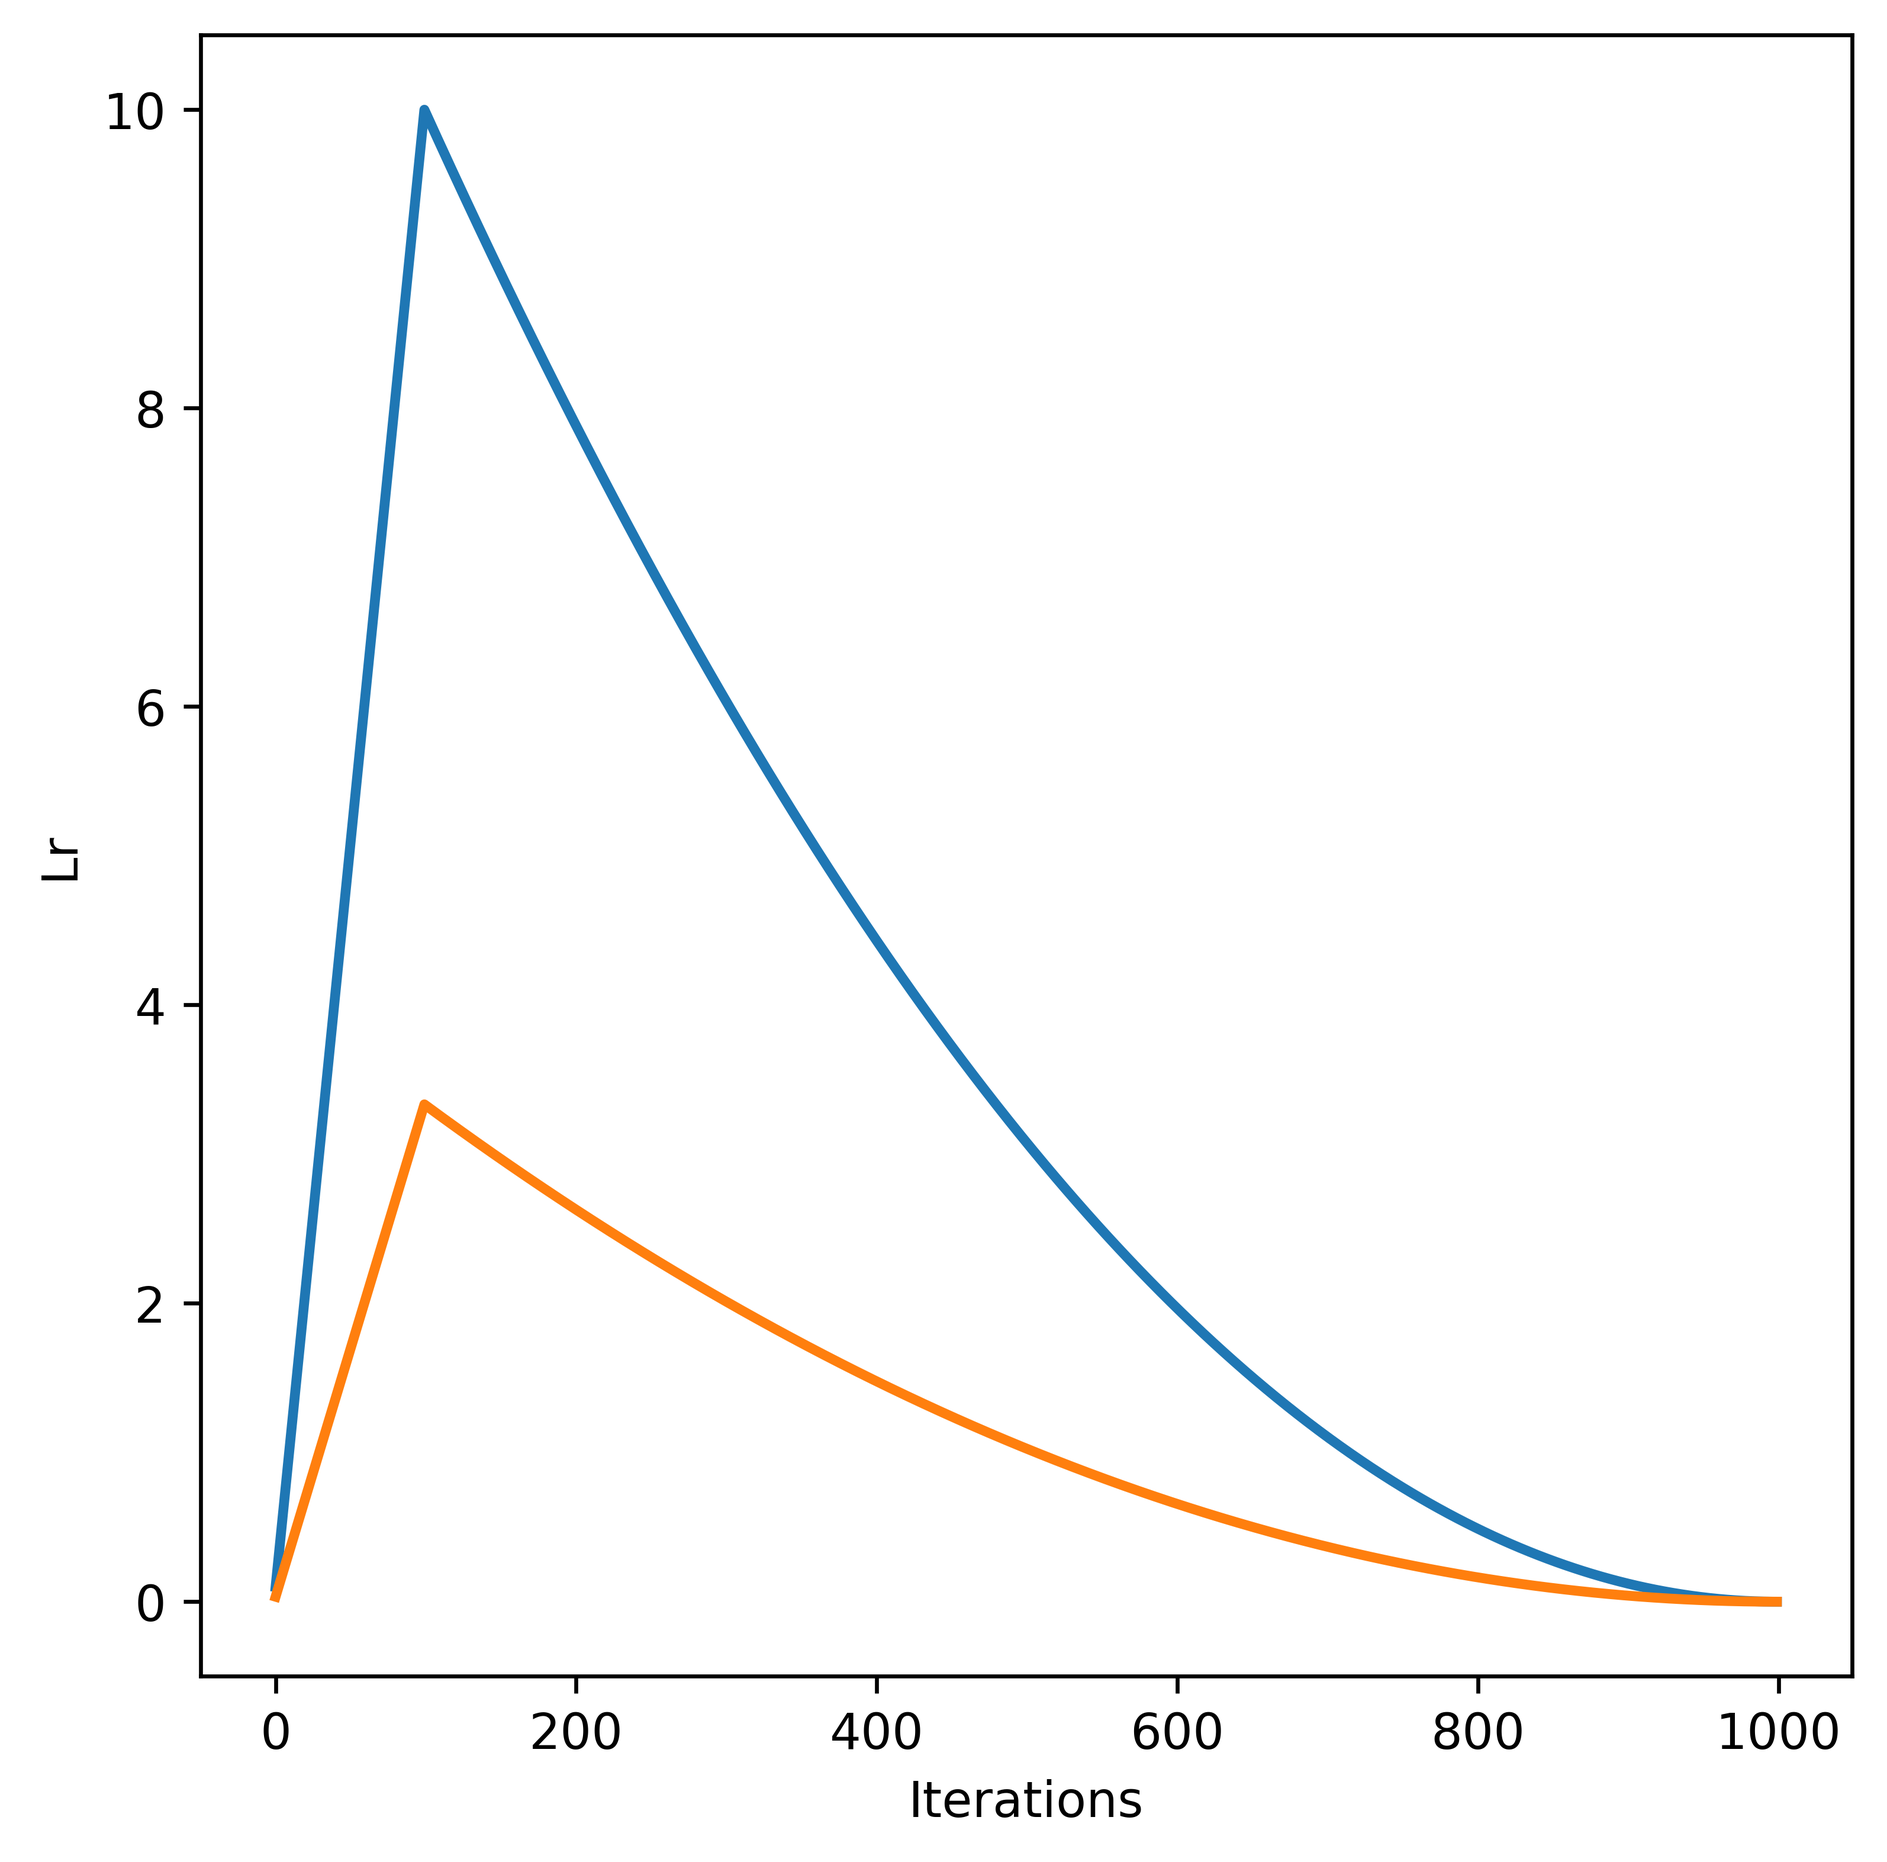
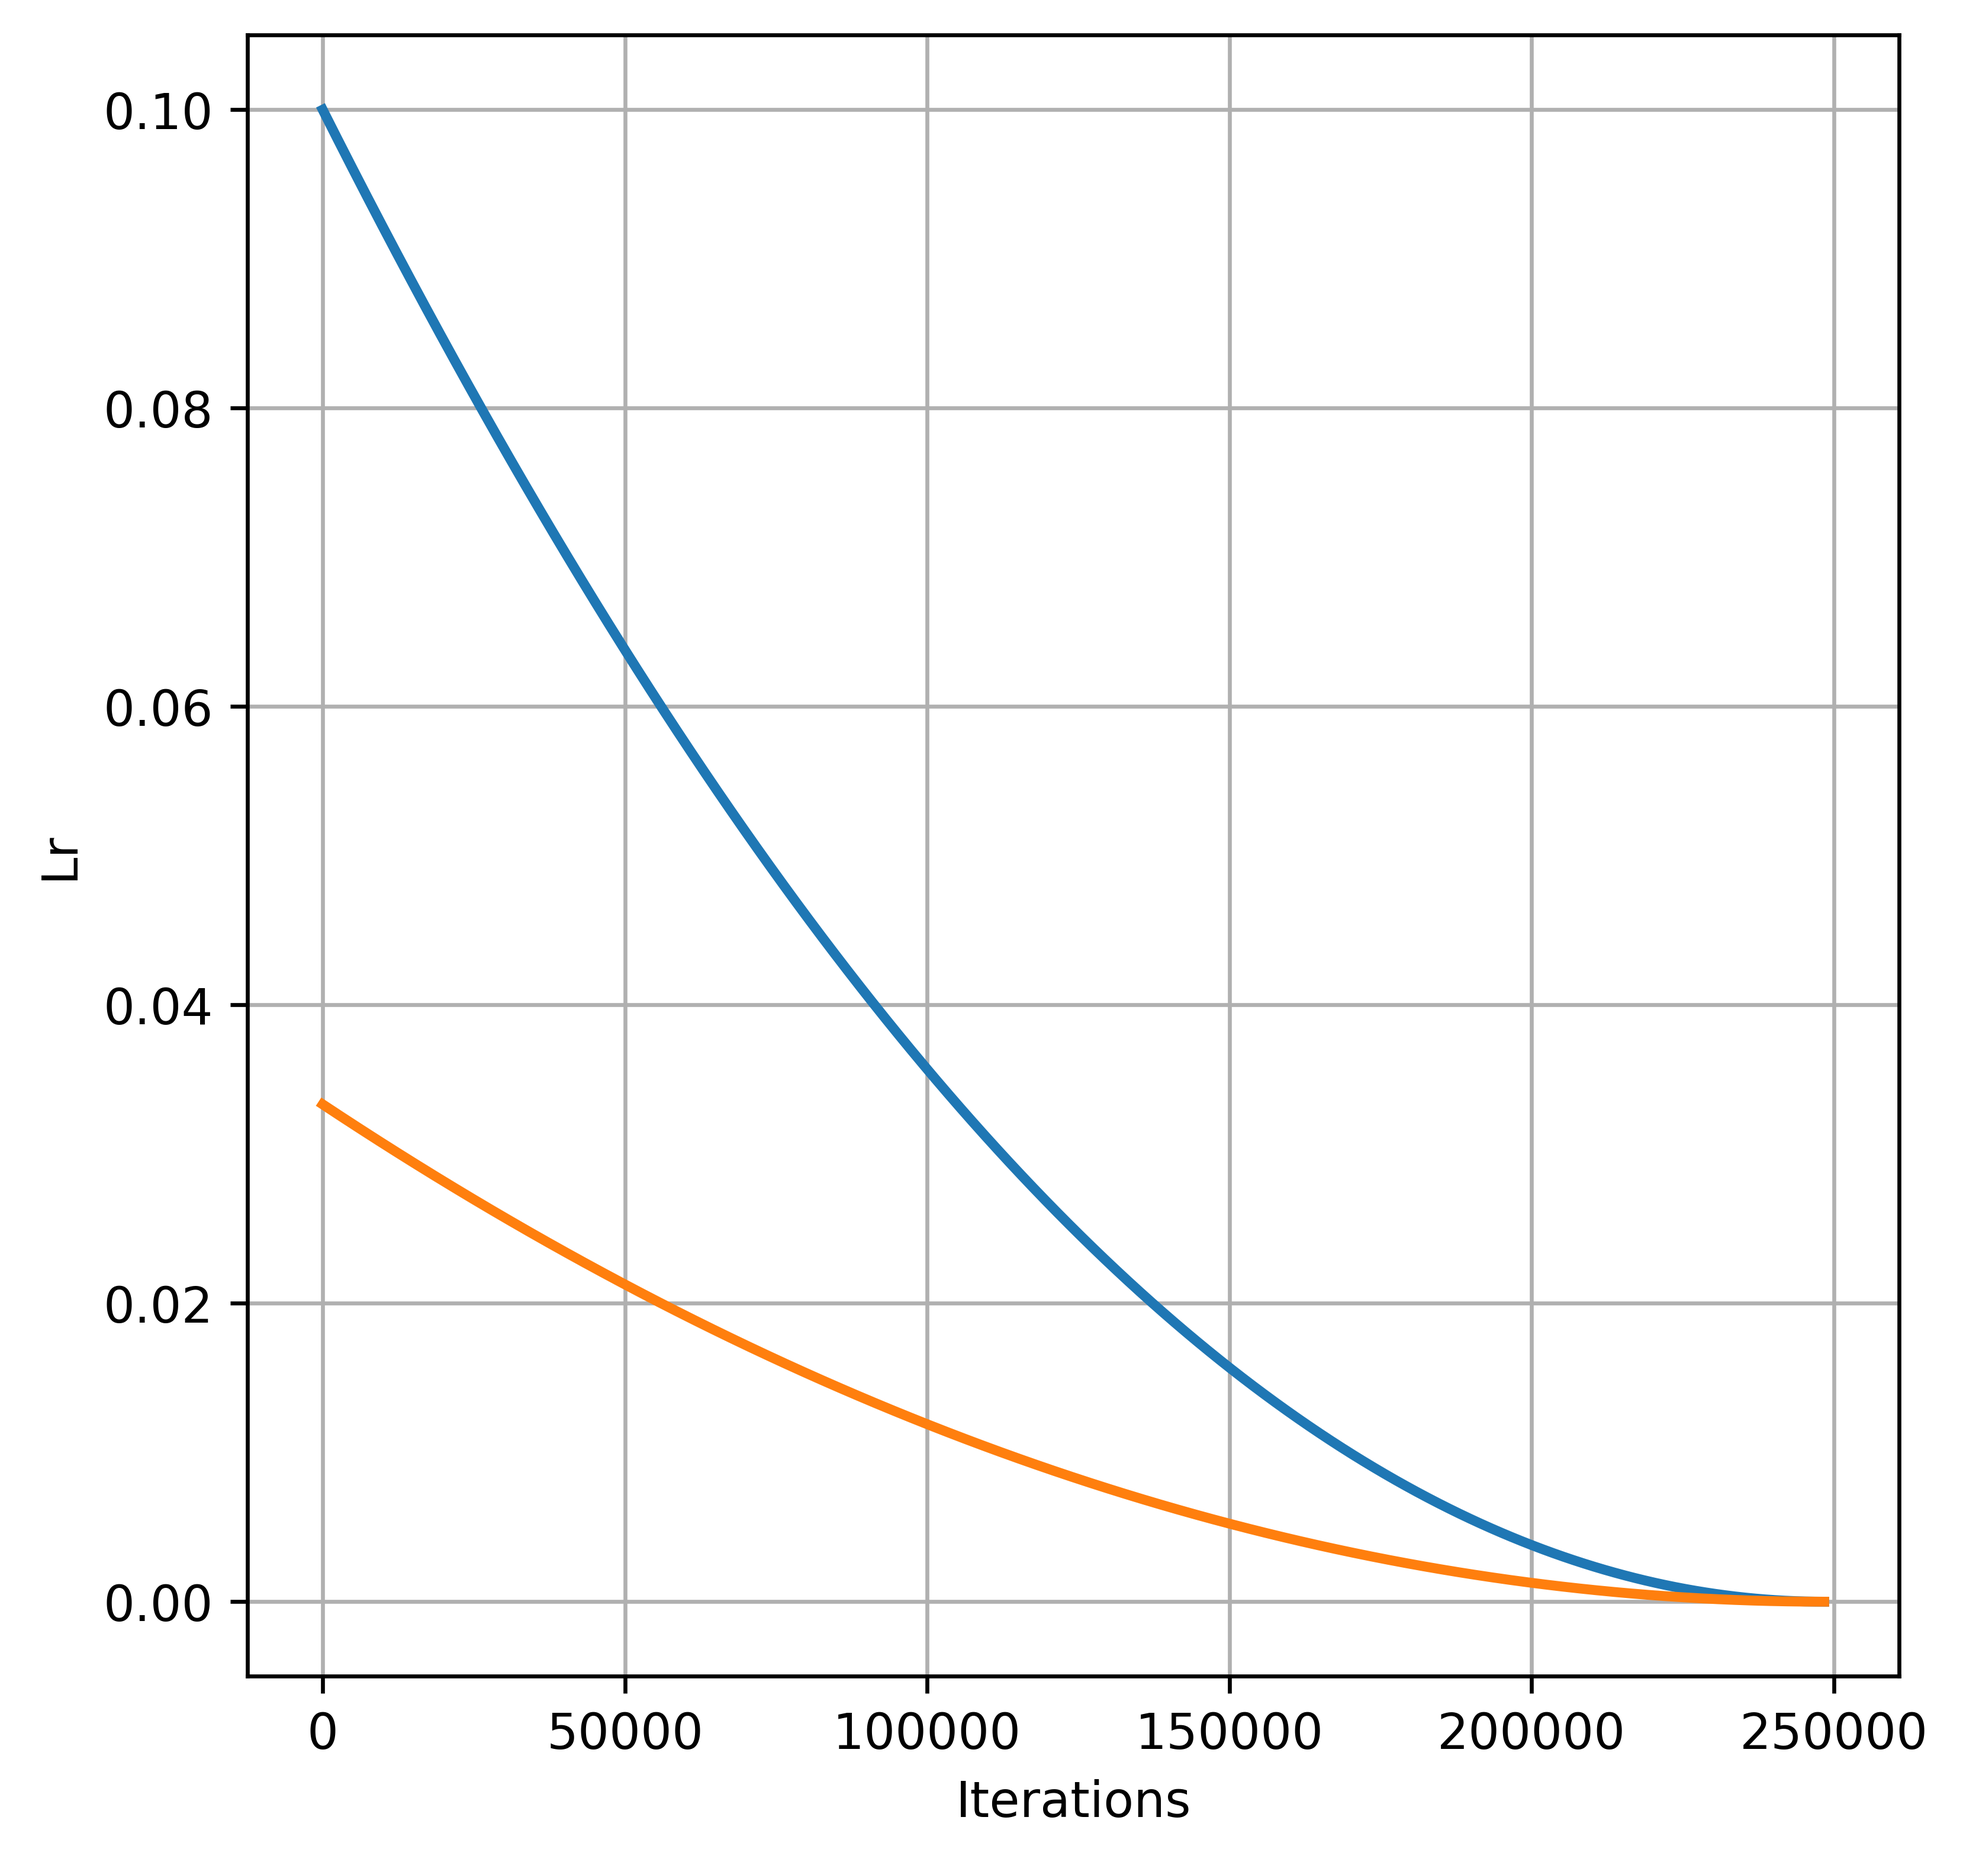
check

diff --git a/lr_scheduler.py b/lr_scheduler.py
@@ -5,7 +5,7 @@ import warnings
 
 
 class PolynomialLRWarmup(_LRScheduler):
-    def __init__(self, optimizer, warmup_iters, total_iters=5, power=1.0, last_epoch=-1, verbose=False):
+    def __init__(self, optimizer, warmup_iters, total_iters=5, power=2.0, last_epoch=-1, verbose=False):
         super().__init__(optimizer, last_epoch=last_epoch, verbose=verbose)
         self.total_iters = total_iters
         self.power = power
@@ -44,7 +44,9 @@ class PolynomialLRWarmup(_LRScheduler):
 
 
 if __name__ == "__main__":
+    import os
 
+    os.environ["KMP_DUPLICATE_LIB_OK"] = "TRUE"
     class TestModule(torch.nn.Module):
         def __init__(self) -> None:
             super().__init__()
@@ -57,16 +59,16 @@ if __name__ == "__main__":
     test_module = TestModule()
     test_module_pfc = TestModule()
     lr_pfc_weight = 1 / 3
-    base_lr = 10
-    total_steps = 1000
+    base_lr = 0.1
+    total_steps = 248420
 
     sgd = SGD([
         {"params": test_module.parameters(), "lr": base_lr},
         {"params": test_module_pfc.parameters(), "lr": base_lr * lr_pfc_weight}
     ], base_lr)
 
-    scheduler = PolynomialLRWarmup(sgd, total_steps // 10, total_steps, power=2)
-
+    # scheduler = PolynomialLRWarmup(sgd, total_steps // 10, total_steps, power=2)
+    scheduler = PolynomialLRWarmup(sgd, 0, total_steps, power=2.0)
     x = []
     y = []
     y_pfc = []
@@ -86,4 +88,5 @@ if __name__ == "__main__":
     plt.plot(x, y_pfc, linestyle='-', linewidth=2, )
     plt.xlabel('Iterations')  # x_label
     plt.ylabel("Lr")  # y_label
+    plt.grid(True)
     plt.savefig("tmp.png", dpi=600, bbox_inches='tight')

diff --git a/test.py b/test.py
@@ -39,4 +39,38 @@ def t():
     import torch;
     a = torch.ones(1, device="cuda")
 if __name__ =='__main__' :
-    pass
+    import re
+    import matplotlib.pyplot as plt
+
+    # Đường dẫn tới tệp log của bạn
+    log_file_path = 'training.log.txt'
+
+    # Đọc nội dung tệp log
+    with open(log_file_path, 'r') as file:
+        log_data = file.readlines()
+
+    # Khởi tạo danh sách để lưu trữ LearningRate và Global Step
+    learning_rates = []
+    global_steps = []
+
+    # Duyệt qua từng dòng trong log và tách giá trị LearningRate và Global Step
+    for line in log_data:
+        if 'LearningRate' in line and 'Global Step' in line:
+            lr_match = re.search(r'LearningRate (\d+\.\d+)', line)
+            step_match = re.search(r'Global Step: (\d+)', line)
+            if lr_match and step_match:
+                learning_rate = float(lr_match.group(1))
+                global_step = int(step_match.group(1))
+                learning_rates.append(learning_rate)
+                global_steps.append(global_step)
+
+    # Vẽ đồ thị bằng Matplotlib
+    fontsize = 15
+    plt.figure(figsize=(6, 6))
+    plt.plot(global_steps, learning_rates, linestyle='-', linewidth=2)
+    plt.xlabel('Iterations', fontsize=fontsize)  # x_label
+    plt.ylabel("Learning Rate", fontsize=fontsize)  # y_label
+    plt.title("Learning Rate vs Iterations", fontsize=fontsize)
+    plt.grid(True)
+    plt.savefig("learning_rate_plot.png", dpi=600, bbox_inches='tight')
+    plt.show()

diff --git a/configs/ghostfacenets.py b/configs/ghostfacenets.py
@@ -31,9 +31,9 @@ config.pair_path = "eval/output1.csv"
 
 # For SGD
 config.optimizer = "sgd"
-config.lr = 0.1
+config.lr = 0.02
 config.momentum = 0.9
-config.weight_decay = 0.0001
+config.weight_decay = 5e-4
 
 # For AdamW
 # config.optimizer = "adamw"
@@ -65,13 +65,13 @@ config.num_workers = 4
 #for smaill_dataset
 config.num_classes = 6579
 config.num_image = 300000
-config.num_epoch = 20
+config.num_epoch = 30
 config.warmup_epoch = 0
 config.val_targets =[]
 #for glint 180k
 # config.num_classes = 180855
 # config.num_image = 6753545
-# config.num_epoch = 40
+# config.num_epoch = 30
 # config.warmup_epoch = 0
 # config.val_targets =[]
 # WandB Logger
